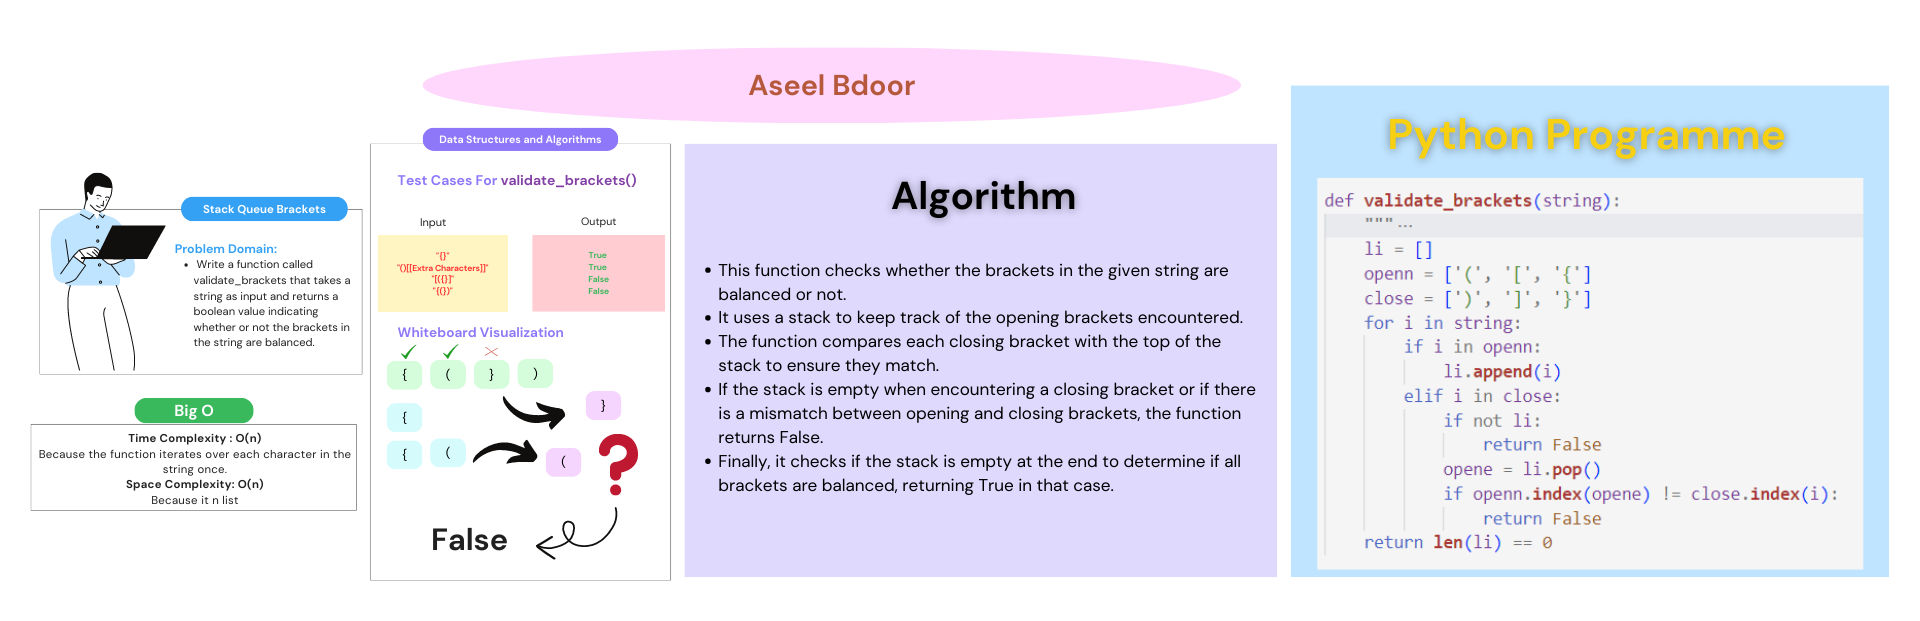
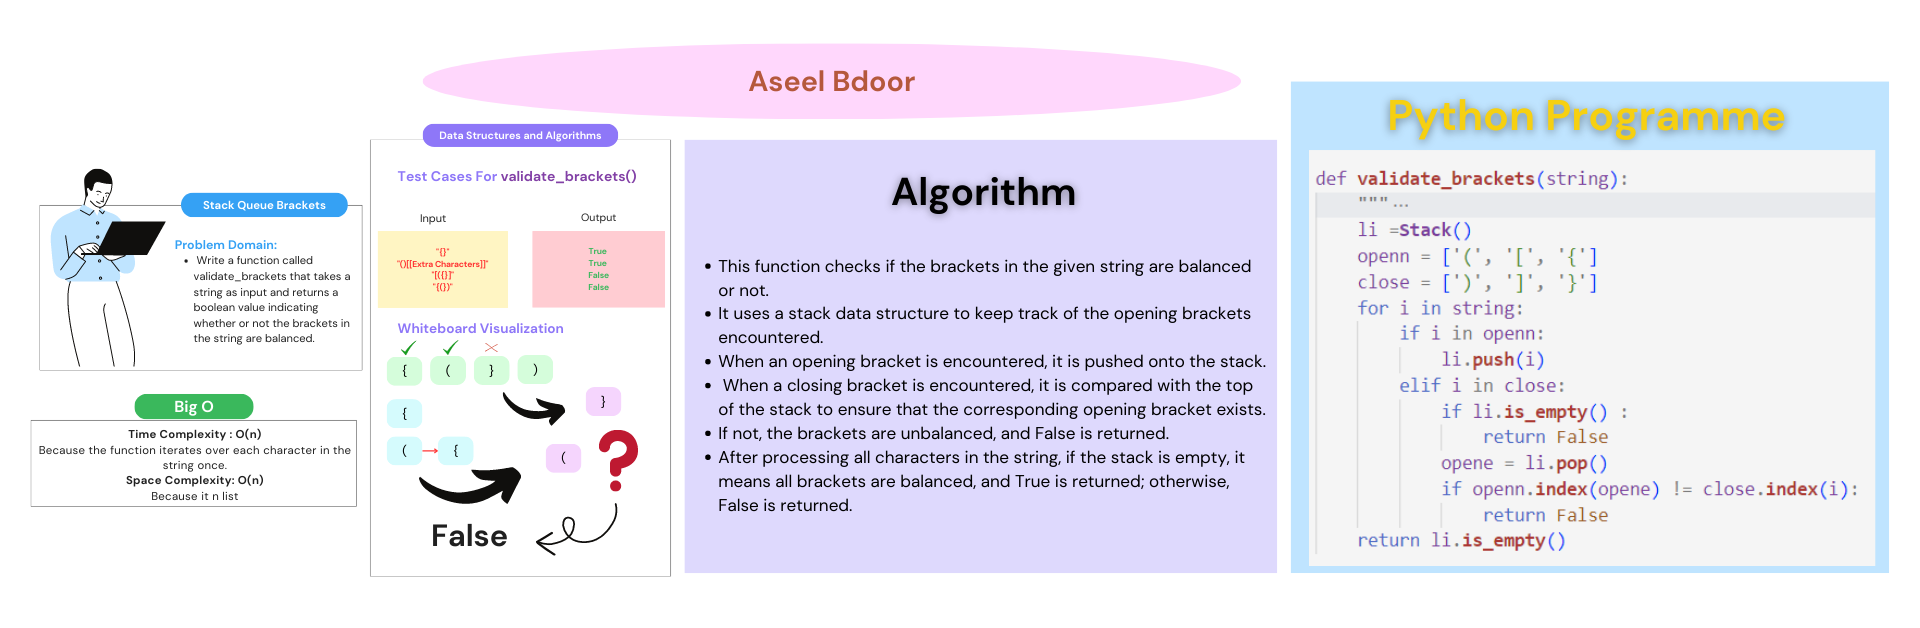
upd

diff --git a/python/stack_queue_brackets/stack_queue_brackets.py b/python/stack_queue_brackets/stack_queue_brackets.py
@@ -1,3 +1,88 @@
+class Node:
+    def __init__(self,value=None,next=None):
+        self.value = value
+        self.next = next
+
+class Stack:
+    def __init__(self,top=None):
+        self.top = top
+
+    def push(self,value):
+        """
+        Pushes a value onto the top of the stack.
+
+        Args:
+            value: The value to be pushed onto the stack.
+        """
+        node = Node(value)
+        #check if the statck is empty or not 
+        # if its empty :
+        if not self.top:
+            self.top=node
+        #IF NOT :
+        else:
+            node.next = self.top
+            self.top = node
+
+    def pop(self):
+        """
+        Removes and returns the value from the top of the stack.
+
+        Returns:
+            The value from the top of the stack.
+
+        Raises:
+            Exception: If the stack is empty.
+        """
+        #check if the statck is empty :
+        if not self.top:
+            raise Exception("There is nothing to remove in the stack")
+        temp= self.top
+        self.top = temp.next
+        temp.next = None
+        return temp.value
+
+    def peek(self):
+        """
+        Returns the value from the top of the stack without removing it.
+
+        Returns:
+            The value from the top of the stack.
+
+        Raises:
+            Exception: If the stack is empty.
+        """
+        if not self.top:
+            raise Exception("This stake is empty so there is no top on it")
+        else:
+            return self.top.value
+        
+    def is_empty(self):
+        """
+        Checks if the stack is empty.
+
+        Returns:
+            True if the stack is empty, False otherwise.
+        """
+        #check if stack is empty-> True 
+        #if not -> False
+        if not self.top:
+            return True
+        return False  
+    
+    def __str__(self):
+        """
+        Returns:
+            A string representation of the stack, showing its elements from top to bottom.
+        """
+        current=self.top
+        string=""
+        while current:
+            string+=f"{current.value}"
+            string+=" -> "
+            current=current.next
+        return string+"None"    
+
 
 def validate_brackets(string):
     """
@@ -9,23 +94,23 @@ def validate_brackets(string):
     Returns:
         bool: True if the brackets are balanced, False otherwise.
     """
-    li = []
+    li =Stack()
     openn = ['(', '[', '{']
     close = [')', ']', '}']
     for i in string:
         if i in openn:
-            li.append(i)
+            li.push(i)
         elif i in close:
-            if not li:
+            if li.is_empty() :
                 return False 
             opene = li.pop()
             if openn.index(opene) != close.index(i):
                 return False
-    return len(li) == 0
+    return li.is_empty()
 
 
 
 #main
 if __name__=="__main__":
-    a="{}"
+    a="{(})}"
     print(validate_brackets(a))

diff --git a/python/stack_queue_brackets/stack_queue_brackets.md b/python/stack_queue_brackets/stack_queue_brackets.md
@@ -5,16 +5,20 @@ Write a function called validate_brackets that takes a string as input and retur
 ![bracket](./brackets.png)
 
 ## Approach & Efficiency
-- The function checks if the brackets in a given string are balanced.
-- It takes a string as input and returns a boolean value indicating whether the brackets are balanced or not.
-- The function uses a stack to keep track of the opening brackets encountered.
-- It defines two lists, openn and close, to store the opening and closing brackets respectively.
-- The function iterates over each character in the string.
-- If an opening bracket is encountered, it is pushed onto the stack.
-- If a closing bracket is encountered, the function checks if the stack is empty. If it is, the brackets are not balanced, and the function returns False.
-- If the stack is not empty, the function pops the topmost opening bracket and checks if it matches the current closing bracket. If they don't match, the brackets are not balanced, and the function returns False.
-- After processing all characters, the function checks if the stack is empty. If it is, the brackets are balanced, and the function returns True. Otherwise, it returns False.
-- The function handles edge cases such as an empty string or a string without any brackets and returns True in such cases.
+- The validate_brackets function checks whether the brackets in a given string are balanced.
+- It uses a stack data structure to keep track of the opening brackets encountered.
+- The function assumes the availability of a custom Stack object, which is not a built-in class in Python.
+- The opening brackets are defined in a list called openn, which contains '(', '[', and '{'.
+- The corresponding closing brackets are defined in a list called close, which contains ')', ']', and '}'.
+- The function iterates over each character in the input string.
+- If the character is an opening bracket, it is pushed onto the stack using the push method of the Stack object.
+- If the character is a closing bracket, the function checks if the stack is empty using the is_empty method of the Stack object.
+- If the stack is empty, it means there is no corresponding opening bracket for the closing bracket, and the function returns False to indicate unbalanced brackets.
+- If the stack is not empty, the function compares the closing bracket with the top of the stack.
+- If the closing bracket does not match the corresponding opening bracket, the function returns False.
+- After processing all characters in the string, the function checks if the stack is empty using the is_empty method.
+- If the stack is empty, it means all opening brackets have been matched and closed, and the function returns True to indicate balanced brackets.
+- If the stack is not empty, it means there are unmatched opening brackets, and the function returns False to indicate unbalanced brackets.
 
 ## Solution
 To run the code: `python3 python/stack_queue_brackets/stack_queue_brackets.py`
